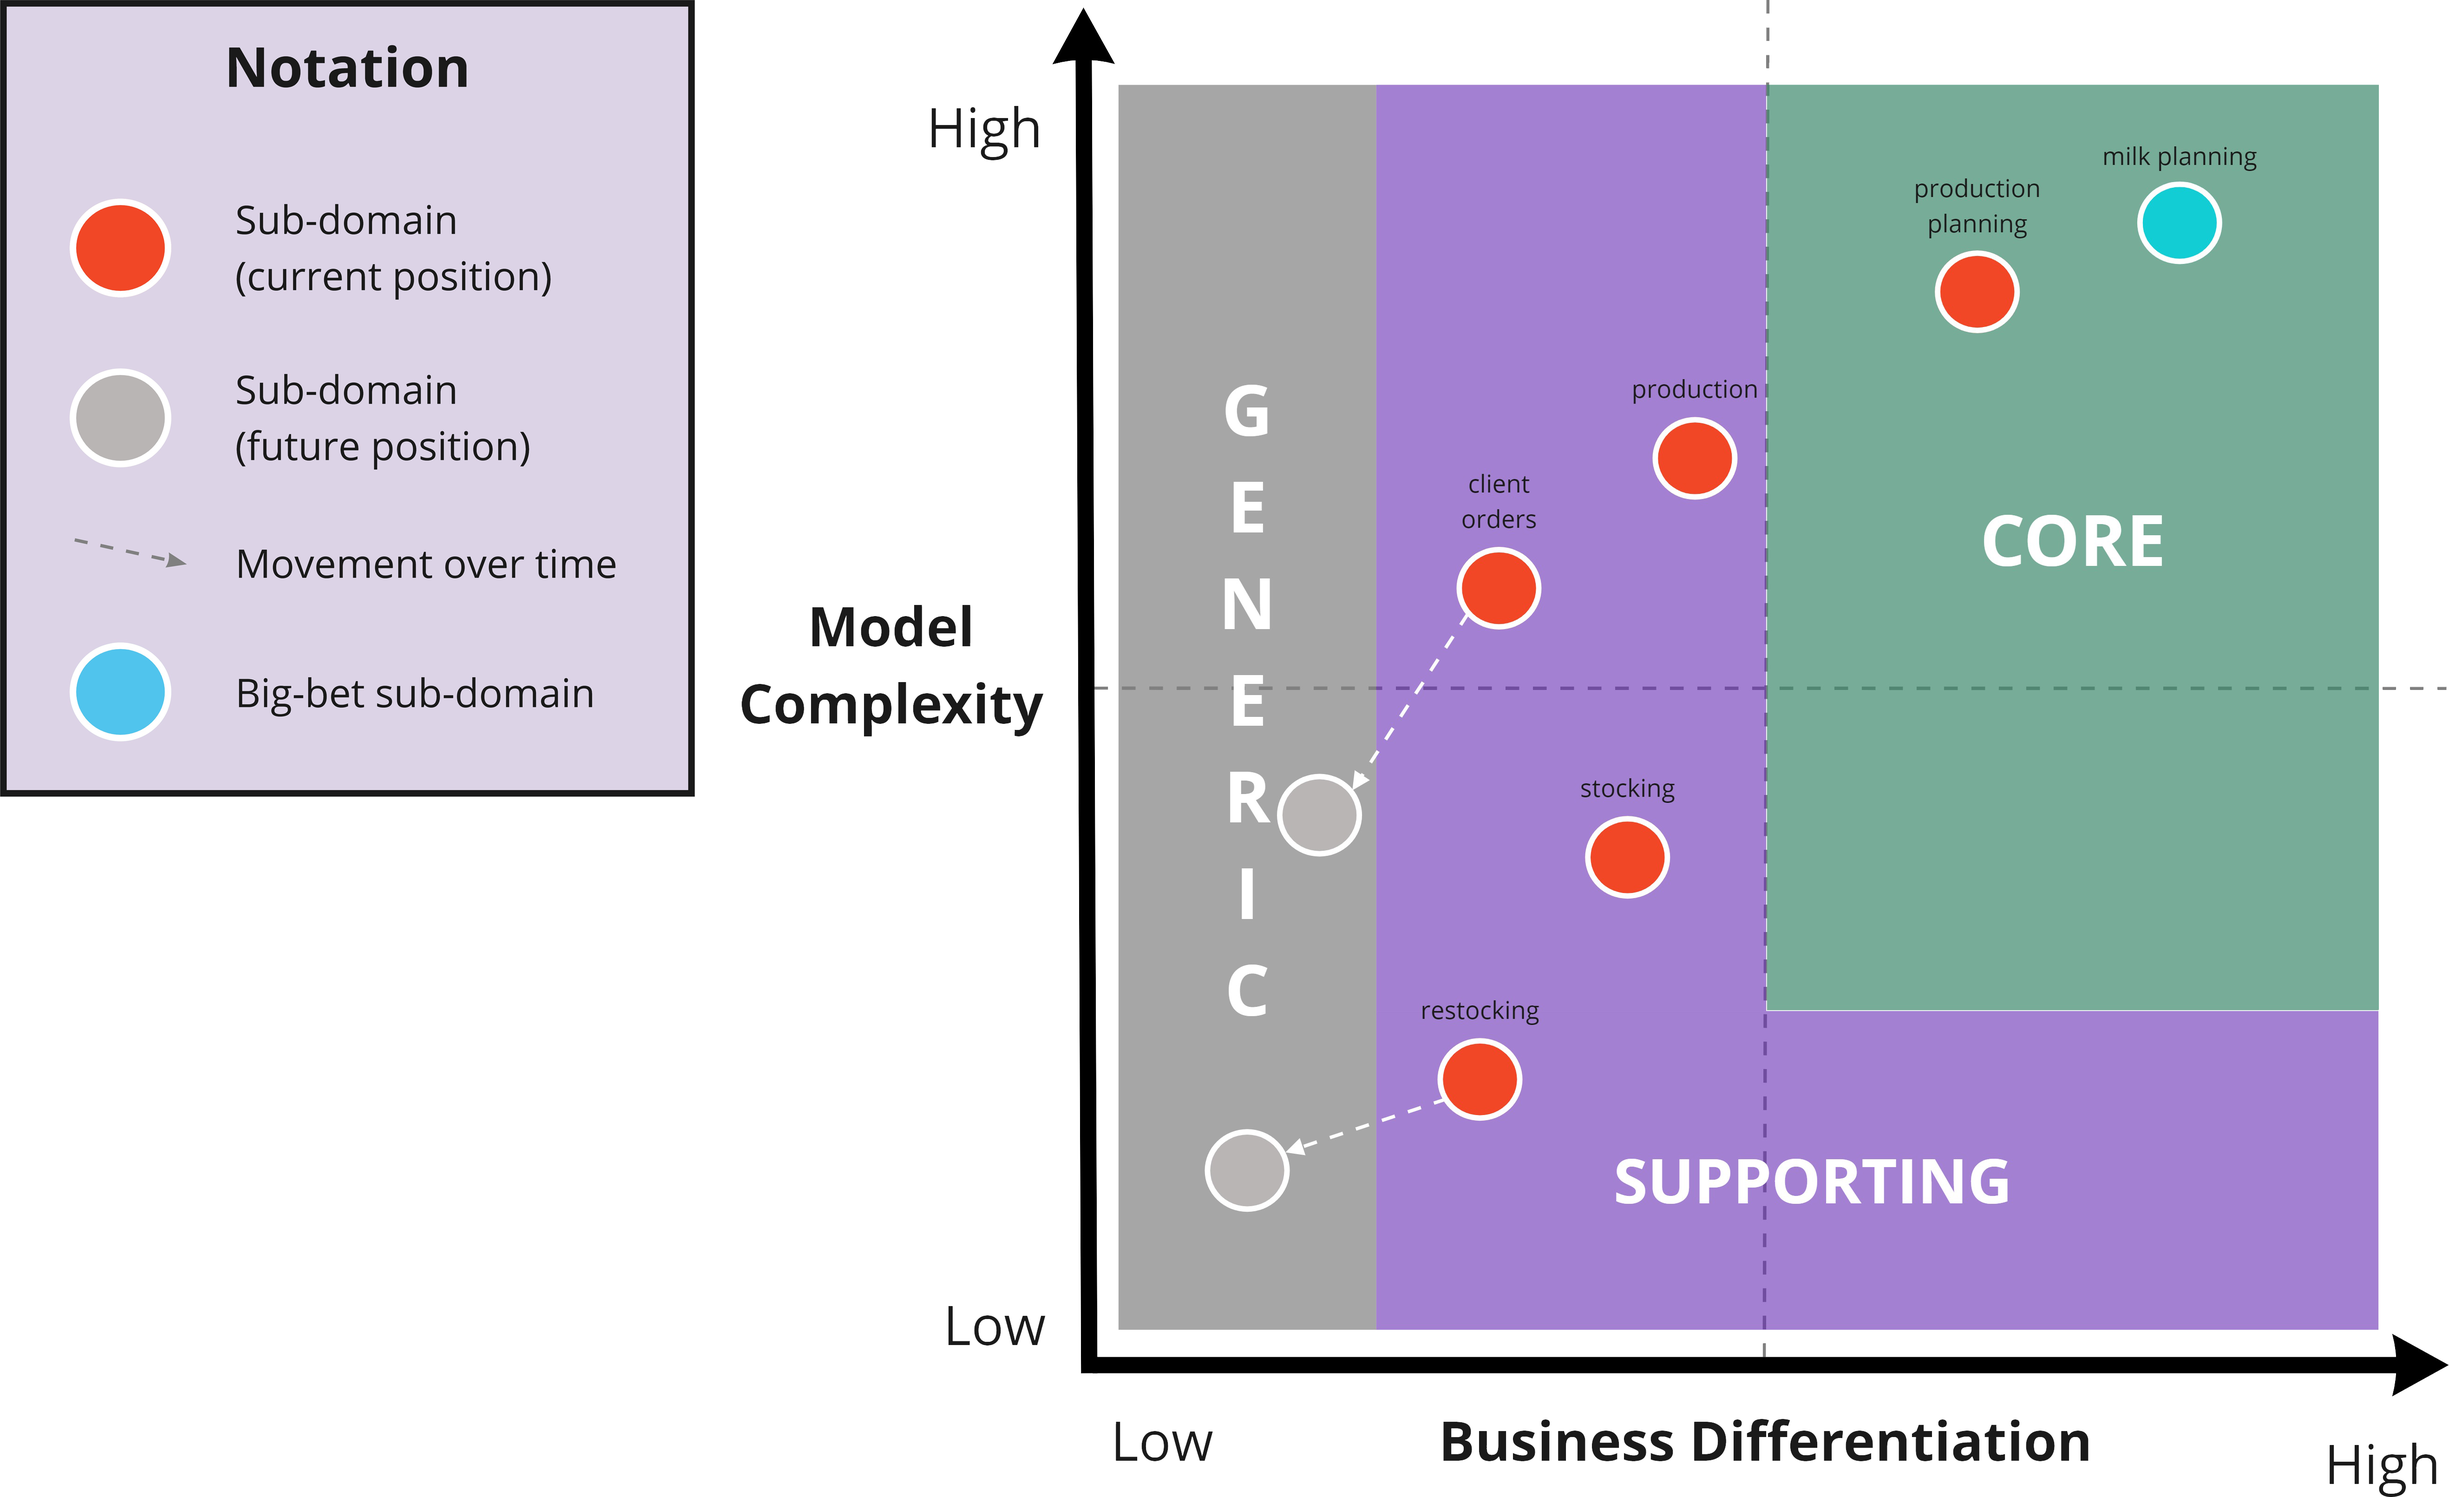
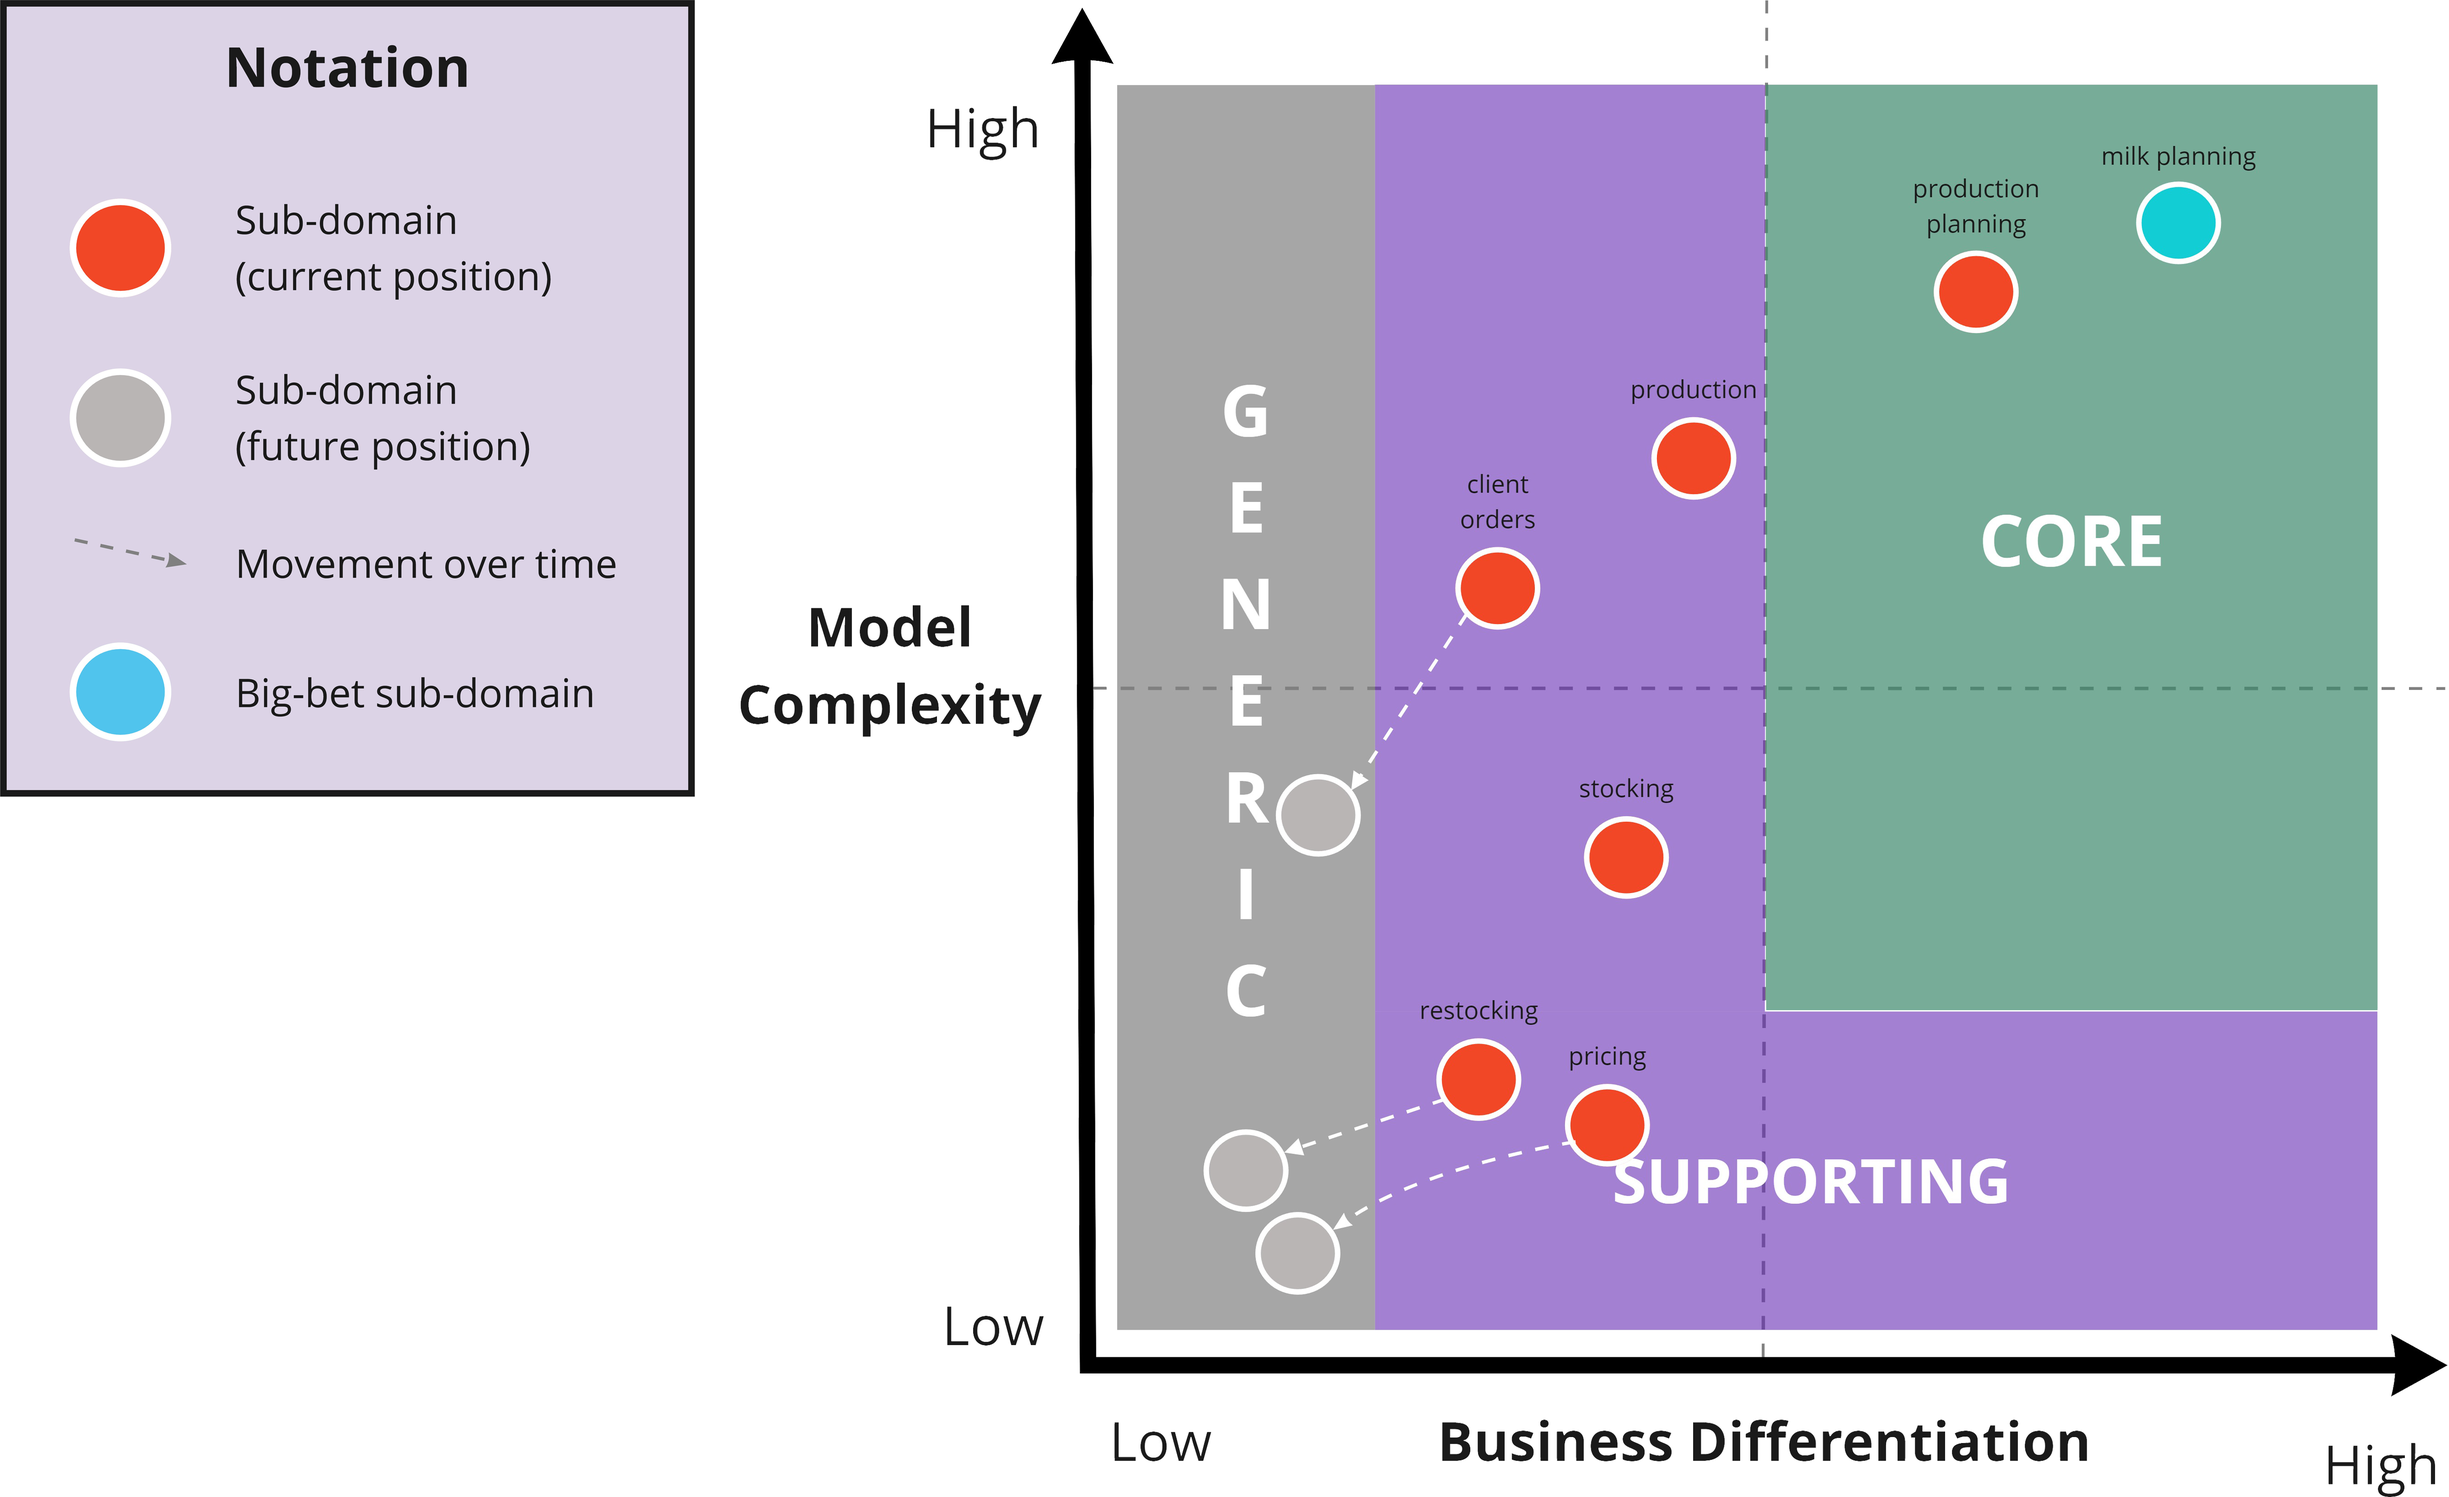
docs: pricing description
Former-commit-id: 1e43a417eea0747dcfe961e81ada1e612605ef1a

diff --git a/docs/_docs/domain-analysis/event-storming.md b/docs/_docs/domain-analysis/event-storming.md
@@ -47,6 +47,7 @@ These are the subdomains that emerged from the Event Storming process:
 - **Restocking**: orders the milk and keeps track of the available quantity of milk
 - **Client Orders**: handles and fulfills the orders made by clients
 - **Production**: tracks the cheeses' production process
+- **Pricing**: calculates the price for every order considering the specific client
 
 We then proceeded to have a more in-depth analysis of each subdomain to determine their business
 differentiation and to do a first estimate of the model's complexity.
@@ -63,7 +64,7 @@ The following considerations were made:
 We gathered these pieces of information and compiled the following core domain chart:
 ![Core domain chart](images/core-domain-chart.png)
 
-As for the **Client Orders** and **Restocking** subdomains, they are considered to be *supporting*
+As for the **Client Orders**, **Restocking** and **Pricing** subdomains, they are considered to be *supporting*
 for the moment since it would be unfeasible to buy a full-fledged SAP-like system.
 For now, it may suffice to implement a custom-made minimal solution to cut costs.
 In the future, with an increased sales volume and revenue, these domains will become generic by
